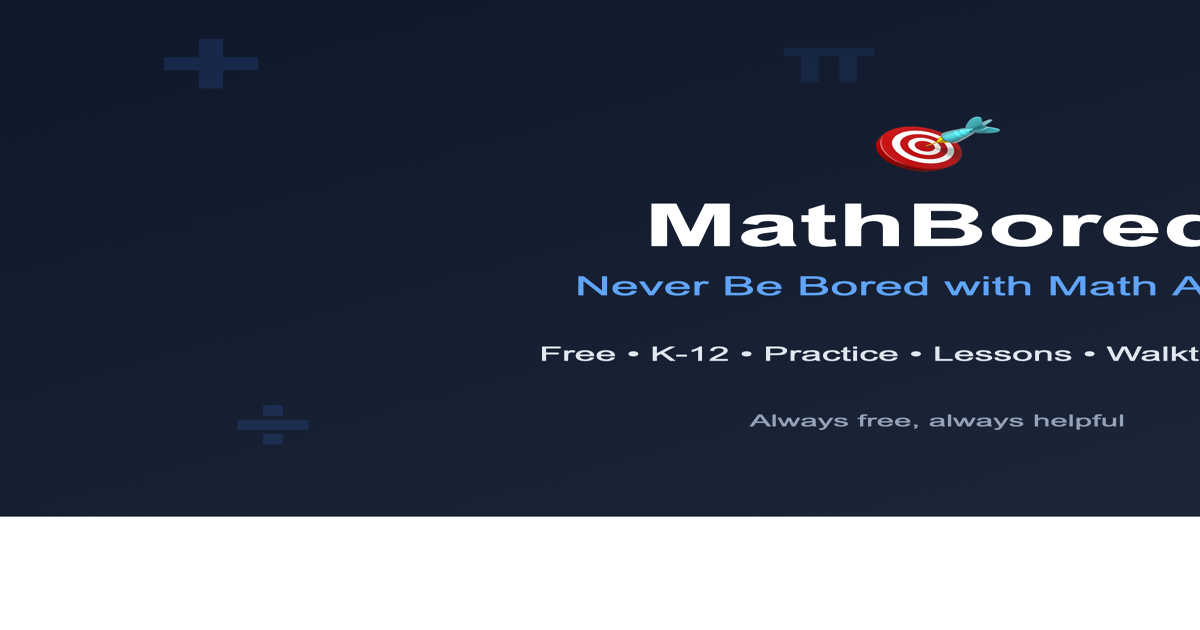
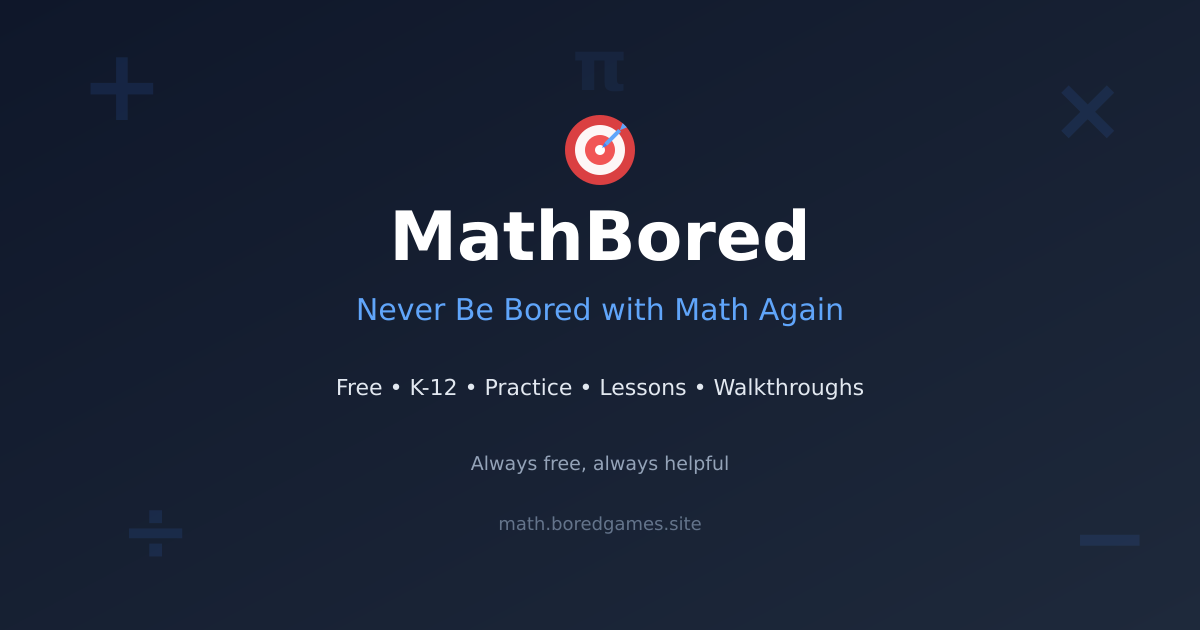
Fix social share image: center content, optimize size, add accessibility
- Fix og-image.svg: center all content, replace emoji with SVG icon
- Regenerate og-image.png at correct 1200x630 dimensions (538KB -> 69KB)
- Add cache-busting parameter (?v=2) to force social platform refresh
- Add og:image:alt and twitter:image:alt for accessibility
- Fixes text cutoff and squished appearance when shared

diff --git a/index.html b/index.html
@@ -16,9 +16,10 @@
     <meta property="og:url" content="https://math.boredgames.site/">
     <meta property="og:title" content="MathBored - Never Be Bored with Math Again">
     <meta property="og:description" content="Free, open-source K-12 math learning and practice application. Master math concepts from kindergarten to calculus with lessons, walkthroughs, and unlimited practice problems.">
-    <meta property="og:image" content="https://math.boredgames.site/og-image.png">
+    <meta property="og:image" content="https://math.boredgames.site/og-image.png?v=2">
     <meta property="og:image:width" content="1200">
     <meta property="og:image:height" content="630">
+    <meta property="og:image:alt" content="MathBored - Free K-12 Math Learning Platform">
     <meta property="og:site_name" content="MathBored">
     
     <!-- Twitter -->
@@ -26,7 +27,8 @@
     <meta property="twitter:url" content="https://math.boredgames.site/">
     <meta property="twitter:title" content="MathBored - Never Be Bored with Math Again">
     <meta property="twitter:description" content="Free, open-source K-12 math learning and practice application. Master math concepts from kindergarten to calculus with lessons, walkthroughs, and unlimited practice problems.">
-    <meta property="twitter:image" content="https://math.boredgames.site/og-image.png">
+    <meta property="twitter:image" content="https://math.boredgames.site/og-image.png?v=2">
+    <meta property="twitter:image:alt" content="MathBored - Free K-12 Math Learning Platform">
     
     <!-- PWA -->
     <link rel="manifest" href="manifest.json">

diff --git a/demo.html b/demo.html
@@ -11,9 +11,10 @@
     <meta property="og:url" content="https://math.boredgames.site/demo.html">
     <meta property="og:title" content="MathBored Demo - Simple Math Practice">
     <meta property="og:description" content="Experience beautiful, focused math practice with our interactive demo. Try 10 problems and see how MathBored makes learning fun.">
-    <meta property="og:image" content="https://math.boredgames.site/og-image.png">
+    <meta property="og:image" content="https://math.boredgames.site/og-image.png?v=2">
     <meta property="og:image:width" content="1200">
     <meta property="og:image:height" content="630">
+    <meta property="og:image:alt" content="MathBored - Free K-12 Math Learning Platform">
     <meta property="og:site_name" content="MathBored">
     
     <!-- Twitter -->
@@ -21,7 +22,8 @@
     <meta property="twitter:url" content="https://math.boredgames.site/demo.html">
     <meta property="twitter:title" content="MathBored Demo - Simple Math Practice">
     <meta property="twitter:description" content="Experience beautiful, focused math practice with our interactive demo. Try 10 problems and see how MathBored makes learning fun.">
-    <meta property="twitter:image" content="https://math.boredgames.site/og-image.png">
+    <meta property="twitter:image" content="https://math.boredgames.site/og-image.png?v=2">
+    <meta property="twitter:image:alt" content="MathBored - Free K-12 Math Learning Platform">
     
     <!-- PWA -->
     <link rel="manifest" href="manifest.json">
